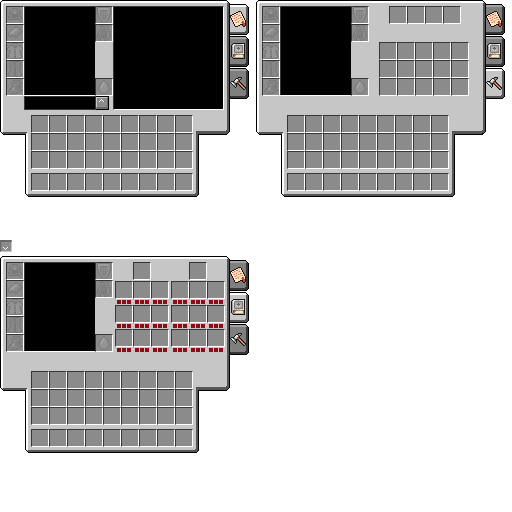
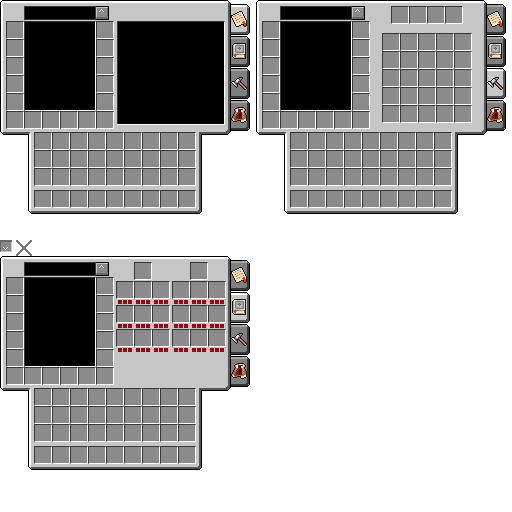
Several texture changes, and replaced the container of the GUI

Changed region(s): [[0.0, 0.0, 1.0, 0.4375], [0.0, 0.4688, 0.5, 0.9375]]

diff --git a/src/main/java/com/fantasticsource/tiamatrpgmain/gui/TiamatInventoryContainer.java b/src/main/java/com/fantasticsource/tiamatrpgmain/gui/TiamatInventoryContainer.java
@@ -1,0 +1,212 @@
+package com.fantasticsource.tiamatrpgmain.gui;
+
+import net.minecraft.enchantment.EnchantmentHelper;
+import net.minecraft.entity.EntityLiving;
+import net.minecraft.entity.player.EntityPlayer;
+import net.minecraft.entity.player.InventoryPlayer;
+import net.minecraft.inventory.*;
+import net.minecraft.item.ItemArmor;
+import net.minecraft.item.ItemStack;
+import net.minecraftforge.fml.relauncher.Side;
+import net.minecraftforge.fml.relauncher.SideOnly;
+
+import javax.annotation.Nullable;
+
+public class TiamatInventoryContainer extends Container
+{
+    private static final EntityEquipmentSlot[] VALID_EQUIPMENT_SLOTS = new EntityEquipmentSlot[]{EntityEquipmentSlot.HEAD, EntityEquipmentSlot.CHEST, EntityEquipmentSlot.LEGS, EntityEquipmentSlot.FEET};
+    public InventoryCrafting craftMatrix = new InventoryCrafting(this, 2, 2);
+    public InventoryCraftResult craftResult = new InventoryCraftResult();
+    public boolean isLocalWorld;
+    private final EntityPlayer player;
+
+    public TiamatInventoryContainer(EntityPlayer playerIn)
+    {
+        player = playerIn;
+        InventoryPlayer playerInventory = playerIn.inventory;
+
+        isLocalWorld = !playerIn.world.isRemote;
+        addSlotToContainer(new SlotCrafting(playerInventory.player, craftMatrix, craftResult, 0, 154, 28));
+
+        for (int i = 0; i < 2; ++i)
+        {
+            for (int j = 0; j < 2; ++j)
+            {
+                addSlotToContainer(new Slot(craftMatrix, j + i * 2, 98 + j * 18, 18 + i * 18));
+            }
+        }
+
+        for (int k = 0; k < 4; ++k)
+        {
+            final EntityEquipmentSlot entityequipmentslot = VALID_EQUIPMENT_SLOTS[k];
+            addSlotToContainer(new Slot(playerInventory, 36 + (3 - k), 8, 8 + k * 18)
+            {
+                public int getSlotStackLimit()
+                {
+                    return 1;
+                }
+
+                public boolean isItemValid(ItemStack stack)
+                {
+                    return stack.getItem().isValidArmor(stack, entityequipmentslot, player);
+                }
+
+                public boolean canTakeStack(EntityPlayer playerIn)
+                {
+                    ItemStack itemstack = getStack();
+                    return !itemstack.isEmpty() && !playerIn.isCreative() && EnchantmentHelper.hasBindingCurse(itemstack) ? false : super.canTakeStack(playerIn);
+                }
+
+                @Nullable
+                @SideOnly(Side.CLIENT)
+                public String getSlotTexture()
+                {
+                    return ItemArmor.EMPTY_SLOT_NAMES[entityequipmentslot.getIndex()];
+                }
+            });
+        }
+
+        for (int l = 0; l < 3; ++l)
+        {
+            for (int j1 = 0; j1 < 9; ++j1)
+            {
+                addSlotToContainer(new Slot(playerInventory, j1 + (l + 1) * 9, 8 + j1 * 18, 84 + l * 18));
+            }
+        }
+
+        for (int i1 = 0; i1 < 9; ++i1)
+        {
+            addSlotToContainer(new Slot(playerInventory, i1, 8 + i1 * 18, 142));
+        }
+
+        addSlotToContainer(new Slot(playerInventory, 40, 77, 62)
+        {
+            @Nullable
+            @SideOnly(Side.CLIENT)
+            public String getSlotTexture()
+            {
+                return "minecraft:items/empty_armor_slot_shield";
+            }
+        });
+    }
+
+    public void onCraftMatrixChanged(IInventory inventoryIn)
+    {
+        slotChangedCraftingGrid(player.world, player, craftMatrix, craftResult);
+    }
+
+    public void onContainerClosed(EntityPlayer playerIn)
+    {
+        super.onContainerClosed(playerIn);
+        craftResult.clear();
+
+        if (!playerIn.world.isRemote)
+        {
+            clearContainer(playerIn, playerIn.world, craftMatrix);
+        }
+    }
+
+    public boolean canInteractWith(EntityPlayer playerIn)
+    {
+        return true;
+    }
+
+    public ItemStack transferStackInSlot(EntityPlayer playerIn, int index)
+    {
+        ItemStack itemstack = ItemStack.EMPTY;
+        Slot slot = inventorySlots.get(index);
+
+        if (slot != null && slot.getHasStack())
+        {
+            ItemStack itemstack1 = slot.getStack();
+            itemstack = itemstack1.copy();
+            EntityEquipmentSlot entityequipmentslot = EntityLiving.getSlotForItemStack(itemstack);
+
+            if (index == 0)
+            {
+                if (!mergeItemStack(itemstack1, 9, 45, true))
+                {
+                    return ItemStack.EMPTY;
+                }
+
+                slot.onSlotChange(itemstack1, itemstack);
+            }
+            else if (index < 5)
+            {
+                if (!mergeItemStack(itemstack1, 9, 45, false))
+                {
+                    return ItemStack.EMPTY;
+                }
+            }
+            else if (index < 9)
+            {
+                if (!mergeItemStack(itemstack1, 9, 45, false))
+                {
+                    return ItemStack.EMPTY;
+                }
+            }
+            else if (entityequipmentslot.getSlotType() == EntityEquipmentSlot.Type.ARMOR && !inventorySlots.get(8 - entityequipmentslot.getIndex()).getHasStack())
+            {
+                int i = 8 - entityequipmentslot.getIndex();
+
+                if (!mergeItemStack(itemstack1, i, i + 1, false))
+                {
+                    return ItemStack.EMPTY;
+                }
+            }
+            else if (entityequipmentslot == EntityEquipmentSlot.OFFHAND && !inventorySlots.get(45).getHasStack())
+            {
+                if (!mergeItemStack(itemstack1, 45, 46, false))
+                {
+                    return ItemStack.EMPTY;
+                }
+            }
+            else if (index < 36)
+            {
+                if (!mergeItemStack(itemstack1, 36, 45, false))
+                {
+                    return ItemStack.EMPTY;
+                }
+            }
+            else if (index < 45)
+            {
+                if (!mergeItemStack(itemstack1, 9, 36, false))
+                {
+                    return ItemStack.EMPTY;
+                }
+            }
+            else if (!mergeItemStack(itemstack1, 9, 45, false))
+            {
+                return ItemStack.EMPTY;
+            }
+
+            if (itemstack1.isEmpty())
+            {
+                slot.putStack(ItemStack.EMPTY);
+            }
+            else
+            {
+                slot.onSlotChanged();
+            }
+
+            if (itemstack1.getCount() == itemstack.getCount())
+            {
+                return ItemStack.EMPTY;
+            }
+
+            ItemStack itemstack2 = slot.onTake(playerIn, itemstack1);
+
+            if (index == 0)
+            {
+                playerIn.dropItem(itemstack2, false);
+            }
+        }
+
+        return itemstack;
+    }
+
+    public boolean canMergeSlot(ItemStack stack, Slot slotIn)
+    {
+        return slotIn.inventory != craftResult && super.canMergeSlot(stack, slotIn);
+    }
+}

diff --git a/src/main/java/com/fantasticsource/tiamatrpgmain/gui/TiamatInventoryGUI.java b/src/main/java/com/fantasticsource/tiamatrpgmain/gui/TiamatInventoryGUI.java
@@ -4,18 +4,21 @@ import net.minecraft.client.Minecraft;
 import net.minecraft.client.gui.GuiButton;
 import net.minecraft.client.gui.GuiButtonImage;
 import net.minecraft.client.gui.inventory.GuiContainer;
-import net.minecraft.client.renderer.*;
-import net.minecraft.client.renderer.entity.RenderManager;
+import net.minecraft.client.gui.inventory.GuiInventory;
+import net.minecraft.client.renderer.BufferBuilder;
+import net.minecraft.client.renderer.GlStateManager;
+import net.minecraft.client.renderer.Tessellator;
 import net.minecraft.client.renderer.vertex.DefaultVertexFormats;
-import net.minecraft.entity.EntityLivingBase;
-import net.minecraft.entity.player.EntityPlayer;
 import net.minecraft.util.ResourceLocation;
 import net.minecraftforge.fml.common.eventhandler.SubscribeEvent;
 import net.minecraftforge.fml.common.gameevent.InputEvent;
+import net.minecraftforge.fml.relauncher.Side;
+import net.minecraftforge.fml.relauncher.SideOnly;
 
 import static com.fantasticsource.tiamatrpgmain.Keys.TIAMAT_INVENTORY_KEY;
 import static com.fantasticsource.tiamatrpgmain.TiamatRPGMain.MODID;
 
+@SideOnly(Side.CLIENT)
 public class TiamatInventoryGUI extends GuiContainer
 {
     private static int tab = 0;
@@ -25,9 +28,9 @@ public class TiamatInventoryGUI extends GuiContainer
 
     private int uOffset, vOffset;
 
-    public TiamatInventoryGUI(EntityPlayer player)
+    public TiamatInventoryGUI()
     {
-        super(player.inventoryContainer);
+        super(new TiamatInventoryContainer(Minecraft.getMinecraft().player));
         allowUserInput = true;
     }
 
@@ -62,47 +65,7 @@ public class TiamatInventoryGUI extends GuiContainer
         bufferbuilder.pos(guiLeft, guiTop, zLevel).tex(uOffset * U_PIXEL, vOffset * V_PIXEL).endVertex();
         tessellator.draw();
 
-        drawEntityOnScreen(guiLeft + 60, guiTop + 51 + 30, 30, 0, 0, mc.player);
-    }
-
-    public static void drawEntityOnScreen(int posX, int posY, int scale, float mouseX, float mouseY, EntityLivingBase ent)
-    {
-        GlStateManager.enableColorMaterial();
-        GlStateManager.pushMatrix();
-        GlStateManager.translate(posX, posY, 50);
-        GlStateManager.scale(-scale, scale, scale);
-        GlStateManager.rotate(180, 0, 0, 1);
-        float f = ent.renderYawOffset;
-        float f1 = ent.rotationYaw;
-        float f2 = ent.rotationPitch;
-        float f3 = ent.prevRotationYawHead;
-        float f4 = ent.rotationYawHead;
-        GlStateManager.rotate(135, 0, 1, 0);
-        RenderHelper.enableStandardItemLighting();
-        GlStateManager.rotate(-135, 0, 1, 0);
-        GlStateManager.rotate(-((float) Math.atan((double) (mouseY / 40))) * 20, 1, 0, 0);
-        ent.renderYawOffset = (float) Math.atan((double) (mouseX / 40)) * 20;
-        ent.rotationYaw = (float) Math.atan((double) (mouseX / 40)) * 40;
-        ent.rotationPitch = -((float) Math.atan((double) (mouseY / 40))) * 20;
-        ent.rotationYawHead = ent.rotationYaw;
-        ent.prevRotationYawHead = ent.rotationYaw;
-        GlStateManager.translate(0, 0, 0);
-        RenderManager rendermanager = Minecraft.getMinecraft().getRenderManager();
-        rendermanager.setPlayerViewY(180);
-        rendermanager.setRenderShadow(false);
-        rendermanager.renderEntity(ent, 0, 0, 0, 0, 1, false);
-        rendermanager.setRenderShadow(true);
-        ent.renderYawOffset = f;
-        ent.rotationYaw = f1;
-        ent.rotationPitch = f2;
-        ent.prevRotationYawHead = f3;
-        ent.rotationYawHead = f4;
-        GlStateManager.popMatrix();
-        RenderHelper.disableStandardItemLighting();
-        GlStateManager.disableRescaleNormal();
-        GlStateManager.setActiveTexture(OpenGlHelper.lightmapTexUnit);
-        GlStateManager.disableTexture2D();
-        GlStateManager.setActiveTexture(OpenGlHelper.defaultTexUnit);
+        GuiInventory.drawEntityOnScreen(guiLeft + 60, guiTop + 66 + 30, 30, 0, 0, mc.player);
     }
 
     protected void mouseReleased(int mouseX, int mouseY, int state)
@@ -117,7 +80,7 @@ public class TiamatInventoryGUI extends GuiContainer
     {
         if (TIAMAT_INVENTORY_KEY.isPressed() && TIAMAT_INVENTORY_KEY.getKeyConflictContext().isActive())
         {
-            Minecraft.getMinecraft().displayGuiScreen(new TiamatInventoryGUI(Minecraft.getMinecraft().player));
+            Minecraft.getMinecraft().displayGuiScreen(new TiamatInventoryGUI());
         }
     }
 
@@ -130,22 +93,22 @@ public class TiamatInventoryGUI extends GuiContainer
         switch (tab)
         {
             case 0:
-                xSize = 249;
-                ySize = 197;
+                xSize = 250;
+                ySize = 214;
                 uOffset = 0;
                 vOffset = 0;
                 break;
 
             case 1:
-                xSize = 249;
-                ySize = 197;
+                xSize = 250;
+                ySize = 214;
                 uOffset = 0;
                 vOffset = 256;
                 break;
 
             case 2:
-                xSize = 249;
-                ySize = 197;
+                xSize = 250;
+                ySize = 214;
                 uOffset = 256;
                 vOffset = 0;
                 break;
@@ -161,6 +124,9 @@ public class TiamatInventoryGUI extends GuiContainer
         buttonList.add(button);
         button = new GuiButtonImage(2, guiLeft + 230, guiTop + 68, 19, 31, TEXTURE_W - 19, TEXTURE_H - 31, 0, TEXTURE);
         buttonList.add(button);
+
+        //Container
+        inventorySlots = new TiamatInventoryContainer(Minecraft.getMinecraft().player);
     }
 
     protected void actionPerformed(GuiButton button)
